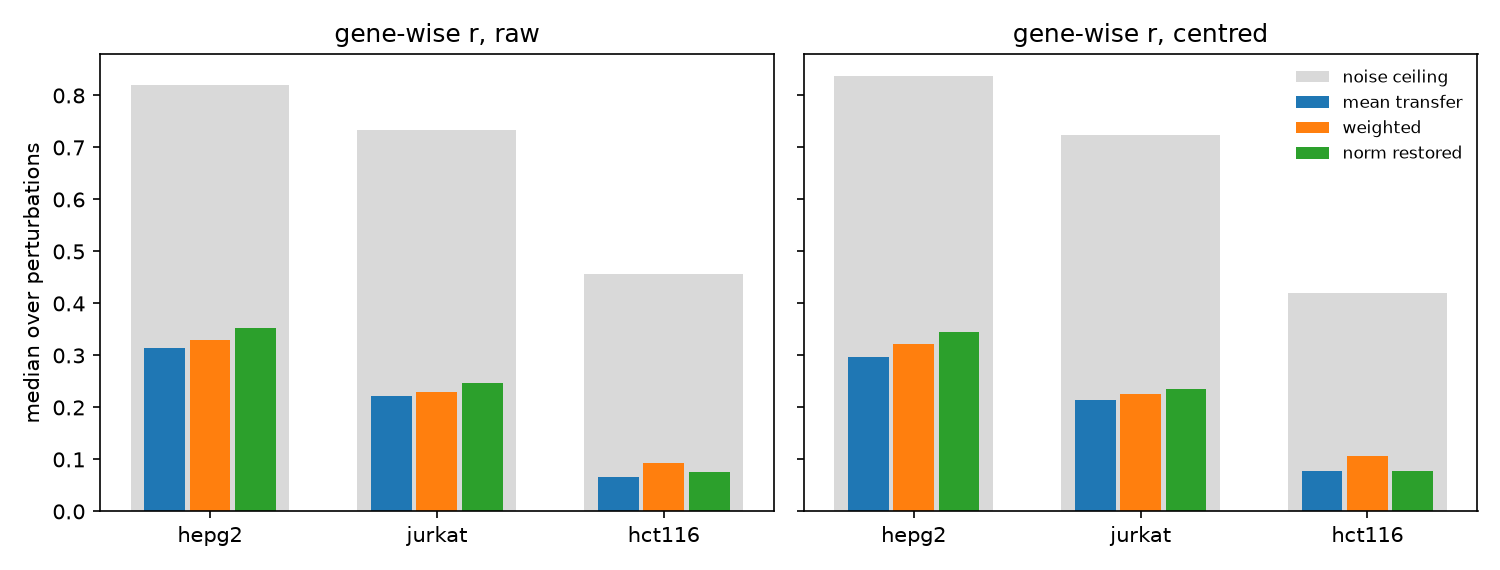
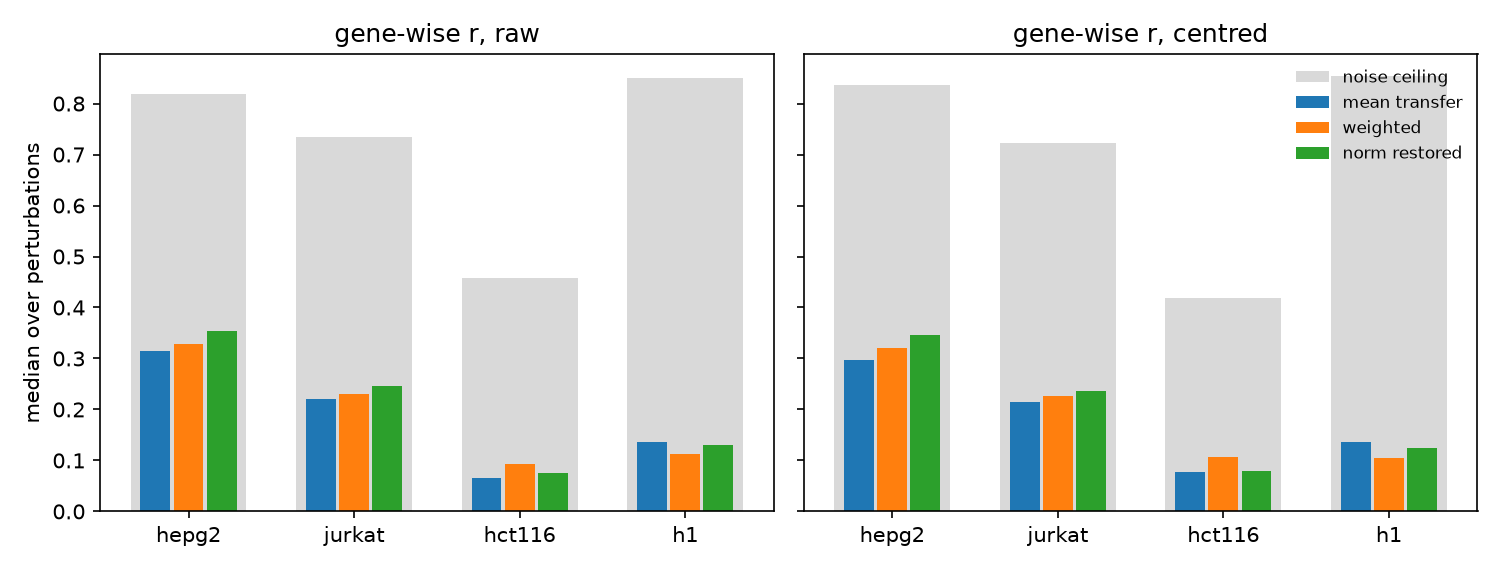
Noise ceiling for H1: as clean as HepG2 (0.85), yet transfer reaches a fifth of it
scripts/10 takes --held-out and skips @<context> runs, which belong to their own real file
(the H1-restricted HepG2/Jurkat runs had broken the glob). Earlier lines reproduce exactly.

diff --git a/scripts/10_noise_ceiling.py b/scripts/10_noise_ceiling.py
@@ -49,12 +49,17 @@ def boot_median_ci(x: np.ndarray, rng) -> tuple[float, float]:
 
 
 def main() -> None:
+    import argparse
+
+    ap = argparse.ArgumentParser()
+    ap.add_argument("--held-out", nargs="*", help="default: evaluation.held_out")
+    args = ap.parse_args()
     cfg = load_config()
     rng = np.random.default_rng(cfg.seed)
     work = cfg.path("results") / "local_eval"
     tables, figs = cfg.path("results") / "tables", cfg.path("results") / "figures"
     line_rows, model_rows = [], []
-    for held in cfg["evaluation"]["held_out"]:
+    for held in args.held_out or cfg["evaluation"]["held_out"]:
         real_path = work / f"{held}_real.h5ad"
         if not real_path.exists():
             continue
@@ -77,8 +82,8 @@ def main() -> None:
         truth = log_fold_change(pert_real.loc[perts].to_numpy(), ctrl_real)[:, expr]
         for pred_path in sorted(work.glob(f"{held}_*_pred.h5ad")):
             model = pred_path.name[len(held) + 1 : -len("_pred.h5ad")]
-            if model == "control":
-                continue
+            if model == "control" or "@" in model:
+                continue  # an @<context> run is scored against its own real file
             ctrl_pred, pert_pred = pseudobulk(pred_path)
             pred = log_fold_change(pert_pred.loc[perts, pert_real.columns].to_numpy(), ctrl_pred)[
                 :, expr

diff --git a/README.md b/README.md
@@ -103,8 +103,9 @@ The X-Atlas knockdowns remove about a quarter of the target transcript where the
 | HepG2 | 0.82 / 0.84 | 0.35 / 0.35 (norm-restored) | 48% / 40% |
 | Jurkat | 0.73 / 0.72 | 0.25 / 0.24 (norm-restored) | 36% / 34% |
 | HCT116 | 0.46 / 0.42 | 0.09 / 0.11 (weighted) | 24% / 27% |
+| H1 (round 9, challenge platform) | 0.85 / 0.85 | 0.15 / 0.15 (mean transfer + CD4) | 19% / 19% |
 
-Medians over 200 perturbations of each perturbation's own r and r / ceiling, expressed genes only (1,580 to 1,795 genes at CP10k >= 1); per-model rows and bootstrap CIs are in `results/tables/noise_ceiling_models.csv`. Two readings. First, the direction error is not measurement noise: every model recovers well under half of the reproducible gene-wise signal, so there is real headroom for information the sources do not carry. Second, the HCT116 ceiling itself is low (split-half r 0.12): with a quarter knockdown and 100 cells, most of that screen's response is not reproducible even within the screen, which bounds what any model can score there.
+Medians over 200 perturbations of each perturbation's own r and r / ceiling, expressed genes only (1,580 to 1,795 genes at CP10k >= 1); per-model rows and bootstrap CIs are in `results/tables/noise_ceiling_models.csv`. Two readings. First, the direction error is not measurement noise: every model recovers well under half of the reproducible gene-wise signal, so there is real headroom for information the sources do not carry. Second, the HCT116 ceiling itself is low (split-half r 0.12): with a quarter knockdown and 100 cells, most of that screen's response is not reproducible even within the screen, which bounds what any model can score there. H1, added in round 9, is the opposite case: with about 1,000 cells per knockdown its ceiling is as high as HepG2's, yet the best model reaches a fifth of it, so on the line most like the hidden challenge lines the gap is not noise at all.
 
 **The ceiling on transfer itself.** The noise ceiling says how well a perfect model could do; it does not say how well *transfer* could do, because a knockdown's true response may simply differ between lines. `scripts/12_transferability.py` measures that directly. Every cell of the four single-cell screens is assigned to one of two halves, and for each pair of lines and each knockdown both screened, the observed gene-wise correlation between the two lines' responses is corrected for measurement noise in both (Spearman's correction for attenuation, r_true = r_obs / sqrt(reliability_1 x reliability_2); knockdowns with a split-half reliability below 0.2 in either line are left out of r_true).
 
